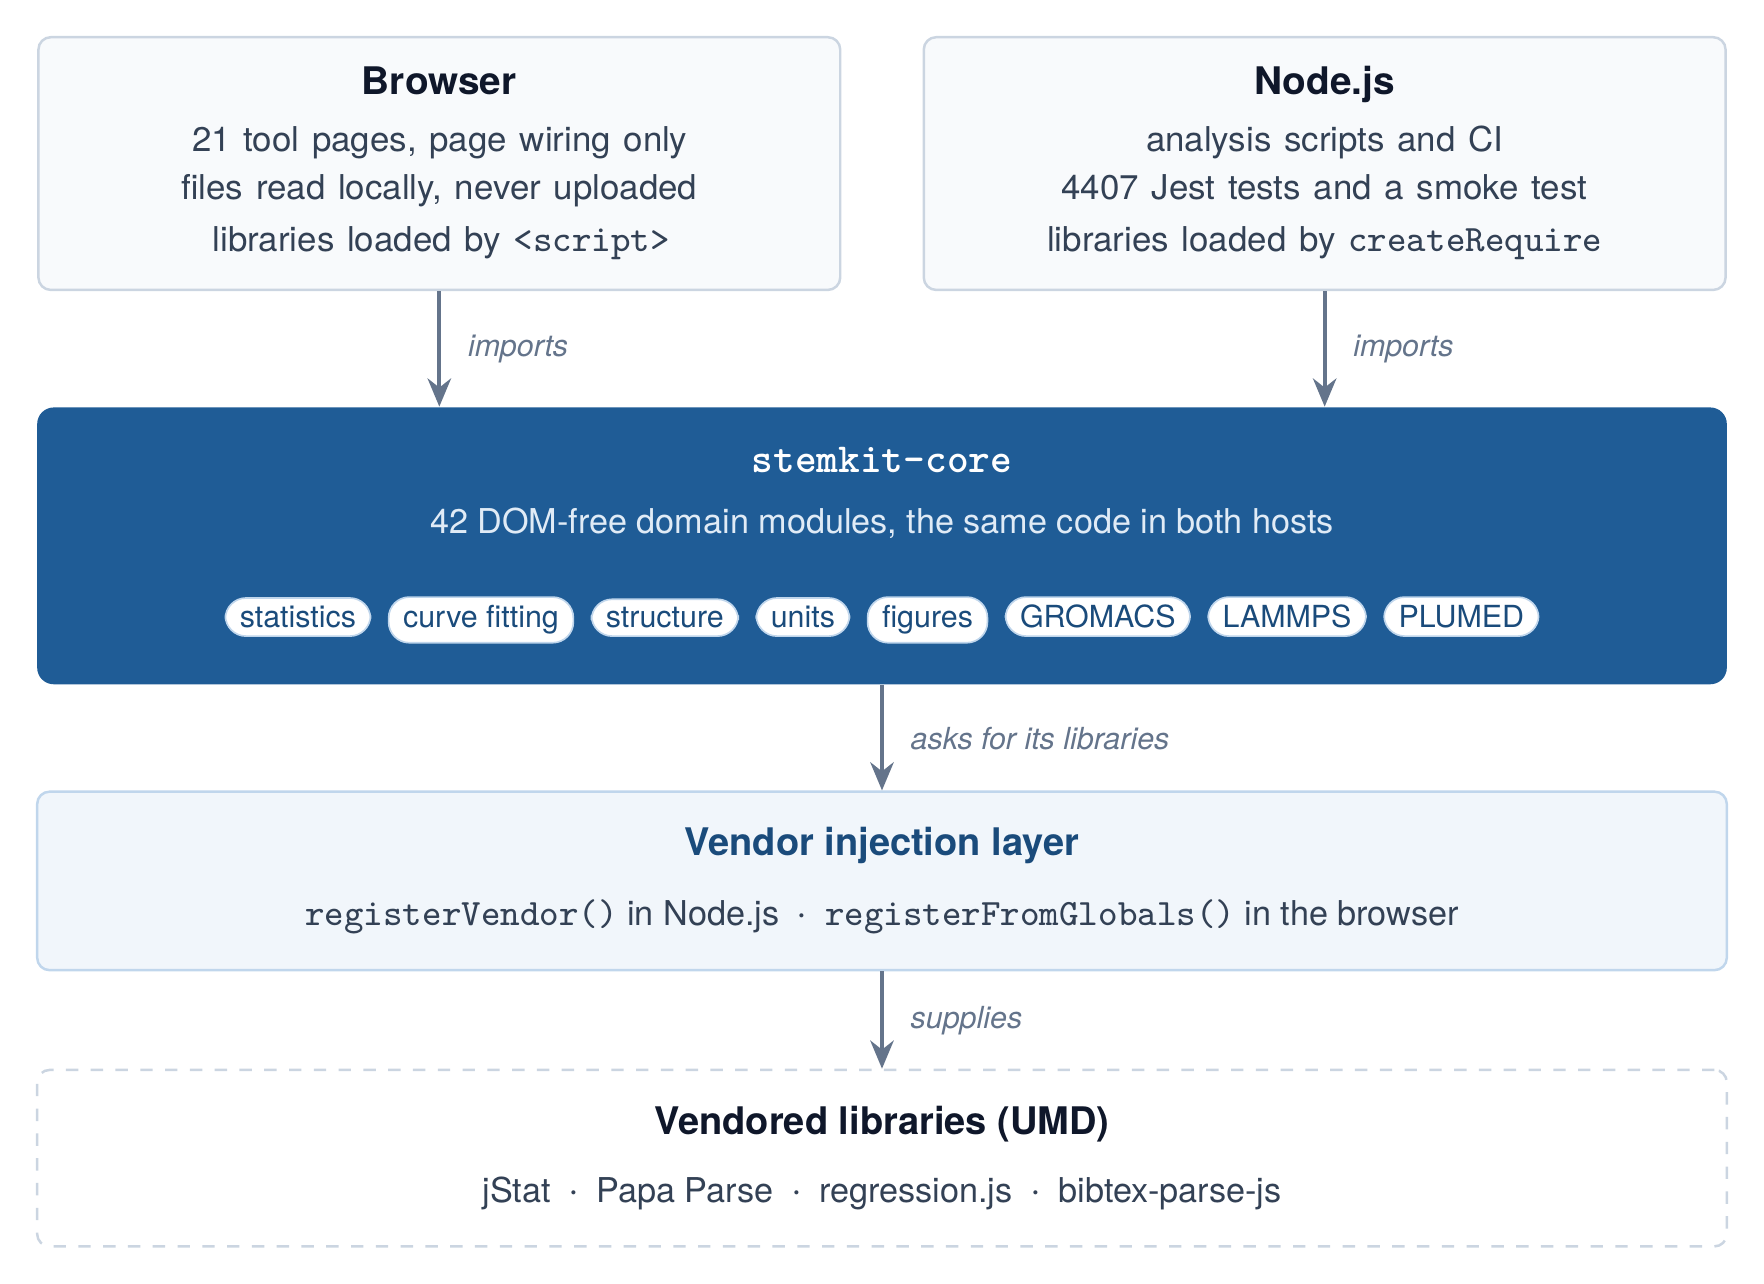
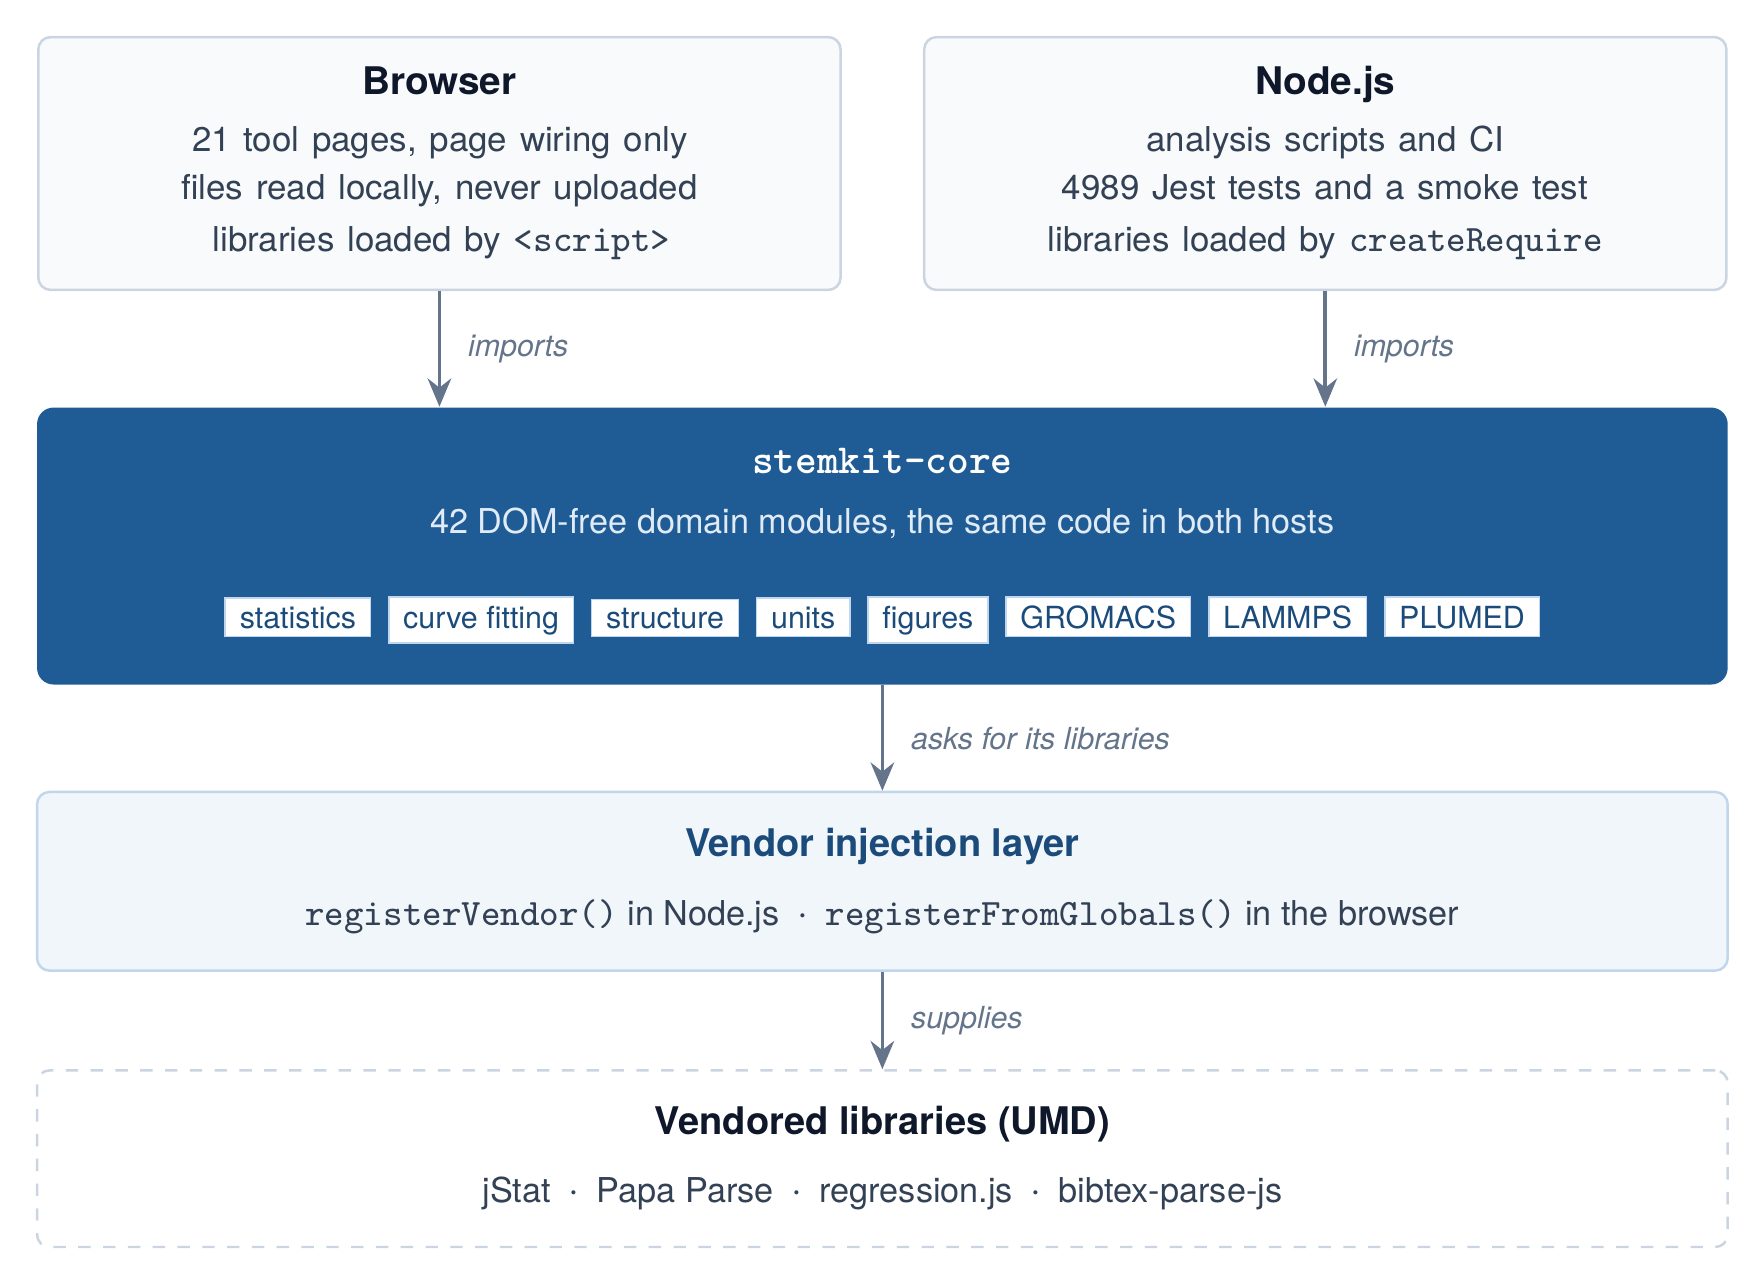
paper: square chips in Figure 1, month and year for the date

diff --git a/paper/preprint.tex b/paper/preprint.tex
@@ -135,7 +135,7 @@
 %% Title block.
 \begin{flushleft}
 {\sffamily\small\color{stkslate500}Preprint \enspace\textbar\enspace
-  Software \texttt{v0.5.1} \enspace\textbar\enspace 11 November 2026\par}
+  Software \texttt{v0.5.1} \enspace\textbar\enspace November 2026\par}
 \vspace{0.9em}
 {\sffamily\bfseries\LARGE\color{stkslate900}\raggedright STEMKit: A client-side
 toolkit for computational chemistry and scientific data analysis\par}
@@ -327,7 +327,7 @@ resulting layering and Table~\ref{tab:modules} enumerates the modules.
                   line width=0.6pt, align=center, inner sep=6pt,
                   text width=0.405\textwidth, text=stkslate900,
                   minimum height=2.15cm, anchor=north},
-  chip/.style  = {draw=stkblue200, fill=white, rounded corners=5pt,
+  chip/.style  = {draw=stkblue200, fill=white,
                   font=\sffamily\scriptsize, text=stkblue700,
                   inner xsep=3.5pt, inner ysep=2pt},
   head/.style  = {font=\sffamily\bfseries\small},

diff --git a/paper/preprint.md b/paper/preprint.md
@@ -11,7 +11,7 @@ author:
     affiliation: Independent Researcher
     email: lanrelangmuir@gmail.com
     corresponding: true
-date: 11 November 2026
+date: November 2026
 keywords:
   - computational chemistry
   - molecular dynamics
